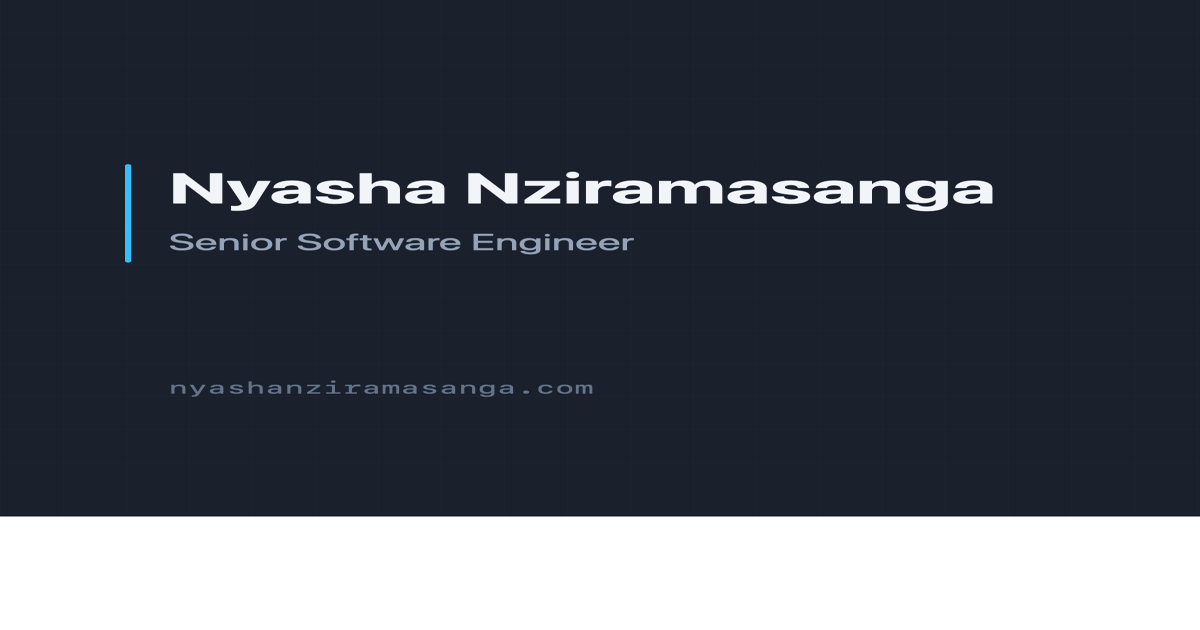
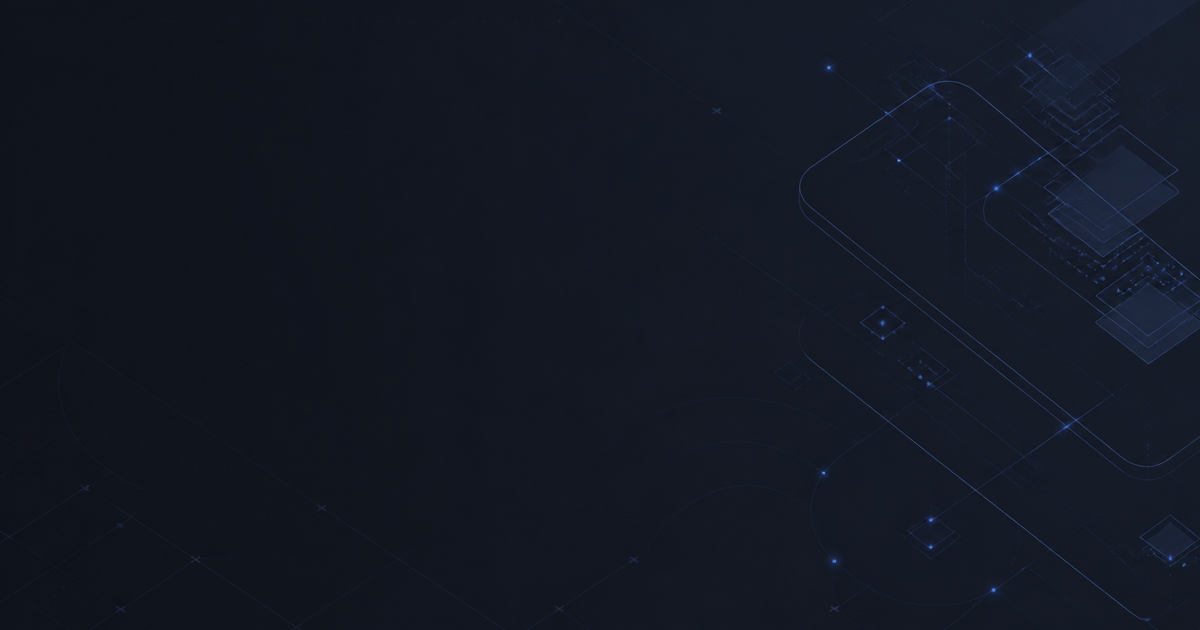
feat(seo): align metadata with mobile positioning

diff --git a/index.html b/index.html
@@ -4,10 +4,10 @@
     <meta charset="UTF-8" />
     <meta name="viewport" content="width=device-width, initial-scale=1.0" />
 
-    <title>Nyasha Nziramasanga | Senior Software Engineer (Mobile)</title>
+    <title>Nyasha Nziramasanga | Senior Mobile Engineer — React Native &amp; Agentic Tooling</title>
     <meta
       name="description"
-      content="Portfolio of Nyasha Nziramasanga — Senior Software Engineer based in Melbourne, Australia. Building mobile experiences with React Native at Linktree."
+      content="Senior Mobile Engineer at Linktree building React Native, iOS and Android products at scale, with a focus on mobile architecture and agentic developer tooling."
     />
     <meta name="author" content="Nyasha Nziramasanga" />
     <meta name="theme-color" content="#1A202C" />
@@ -17,27 +17,30 @@
     <meta property="og:url" content="https://nyashanziramasanga.com/" />
     <meta
       property="og:title"
-      content="Nyasha Nziramasanga | Senior Software Engineer"
+      content="Nyasha Nziramasanga | Senior Mobile Engineer — React Native &amp; Agentic Tooling"
     />
     <meta
       property="og:description"
-      content="Senior Software Engineer at Linktree, crafting mobile experiences used by millions of creators worldwide."
+      content="React Native, iOS and Android engineering at scale, plus practical agentic tooling for mobile development."
     />
     <meta
       property="og:image"
       content="https://nyashanziramasanga.com/og-image.png"
     />
+    <meta property="og:image:width" content="1200" />
+    <meta property="og:image:height" content="630" />
+    <meta property="og:image:alt" content="Nyasha Nziramasanga, Senior Mobile Engineer" />
     <meta property="og:locale" content="en_AU" />
 
     <!-- Twitter / X -->
     <meta name="twitter:card" content="summary_large_image" />
     <meta
       name="twitter:title"
-      content="Nyasha Nziramasanga | Senior Software Engineer"
+      content="Nyasha Nziramasanga | Senior Mobile Engineer — React Native &amp; Agentic Tooling"
     />
     <meta
       name="twitter:description"
-      content="Senior Software Engineer at Linktree, crafting mobile experiences used by millions of creators worldwide."
+      content="React Native, iOS and Android engineering at scale, plus practical agentic tooling for mobile development."
     />
     <meta
       name="twitter:image"
@@ -55,6 +58,40 @@
 
     <!-- Preload critical above-the-fold assets -->
     <link rel="preload" as="image" href="/logos/profile-160.webp" />
+
+    <script type="application/ld+json">
+      {
+        "@context": "https://schema.org",
+        "@graph": [
+          {
+            "@type": "Person",
+            "@id": "https://www.nyashanziramasanga.com/#person",
+            "name": "Nyasha Nziramasanga",
+            "alternateName": "Nash Nziramasanga",
+            "url": "https://www.nyashanziramasanga.com/",
+            "image": "https://www.nyashanziramasanga.com/logos/profile.webp",
+            "jobTitle": "Senior Mobile Engineer — React Native, iOS, Android & Agentic Tooling",
+            "worksFor": { "@type": "Organization", "name": "Linktree", "url": "https://linktr.ee" },
+            "homeLocation": { "@type": "Place", "name": "Melbourne, Australia" },
+            "knowsAbout": ["React Native", "iOS", "Android", "TypeScript", "Mobile architecture", "Agentic developer tooling"],
+            "sameAs": [
+              "https://github.com/NyashaNziramasanga",
+              "https://www.linkedin.com/in/nyasha-nash-nziramasanga/",
+              "https://www.youtube.com/@Nyasha_Nziboi",
+              "https://linktr.ee/nyasha_nziboi"
+            ]
+          },
+          {
+            "@type": "WebSite",
+            "@id": "https://www.nyashanziramasanga.com/#website",
+            "url": "https://www.nyashanziramasanga.com/",
+            "name": "Nyasha Nziramasanga — Senior Mobile Engineer",
+            "description": "Portfolio covering mobile architecture, product engineering and agentic developer tooling.",
+            "author": { "@id": "https://www.nyashanziramasanga.com/#person" }
+          }
+        ]
+      }
+    </script>
   </head>
   <body>
     <div id="root"></div>
